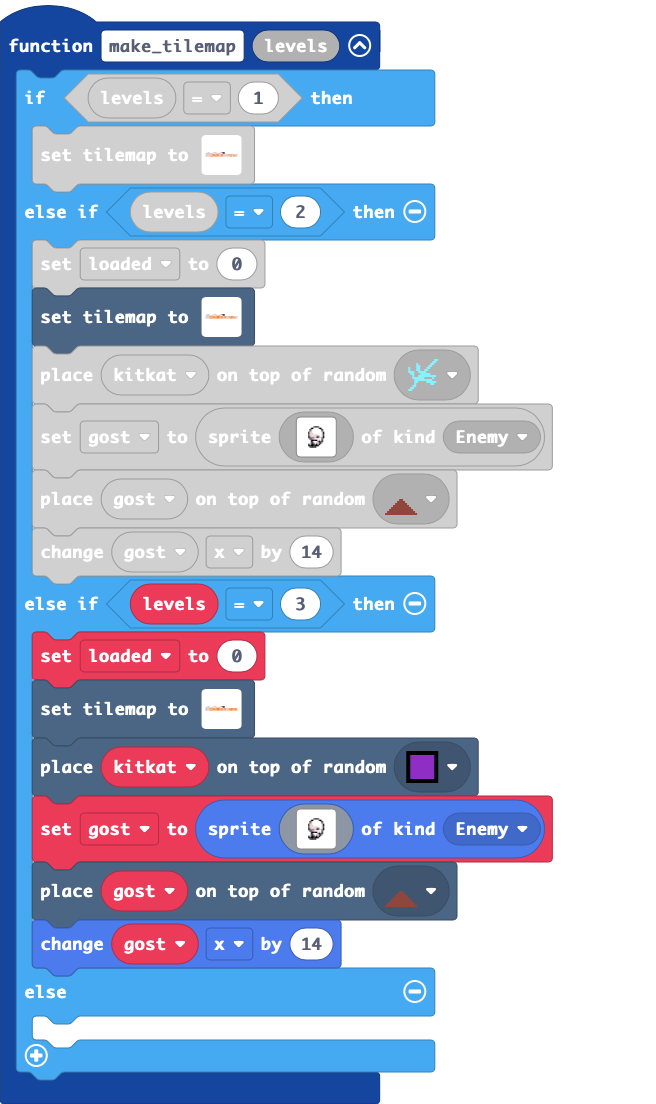
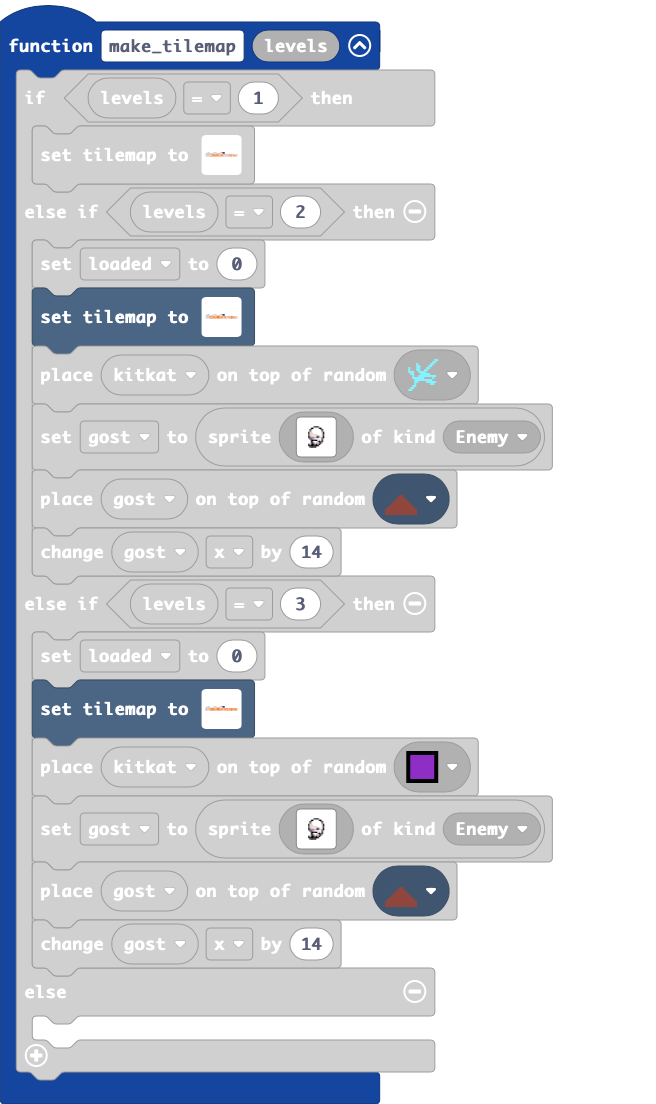
Update main.blocks, main.ts

Changed region(s): [[0.0, 0.0616, 0.8537, 0.9855], [0.5488, 0.4312, 0.7012, 0.4928]]

diff --git a/main.ts b/main.ts
@@ -127,7 +127,7 @@ function make_tilemap (levels: number) {
             `, [myTiles.transparency16,sprites.castle.tilePath2,sprites.castle.tilePath5,sprites.dungeon.hazardLava0,myTiles.tile3,sprites.dungeon.hazardWater,myTiles.tile4,myTiles.tile6,myTiles.tile7,myTiles.tile10,myTiles.tile11,myTiles.tile1,myTiles.tile5,sprites.builtin.forestTiles29,sprites.builtin.forestTiles9,sprites.castle.rock1], TileScale.Sixteen))
     } else if (levels == 2) {
         loaded = 0
[2 lines of base64/hex data omitted]
             ...2.2.......................................................2.......2..................................................
             .............................................................2.......2..................................................
             ...............................22.2..2..2..............22....2222....2..................................................
@@ -172,27 +172,27 @@ function make_tilemap (levels: number) {
             ........................
             ........................
             `, SpriteKind.Enemy)
-        tiles.placeOnRandomTile(gost, myTiles.tile5)
+        tiles.placeOnRandomTile(gost, myTiles.tile1)
         gost.x += 14
     } else if (levels == 3) {
         loaded = 0
[1 lines of base64/hex data omitted]
-            .............................................................2.......2..................................................
-            .............................................................2.......2..................................................
[1 lines of base64/hex data omitted]
+            .....................................................................2..................................................
+            .....................................................................2..................................................
             ...............................22.2..2..2..............22....2222....2..................................................
             ............................2..........................22........2...2..................................................
-            2..2222222..222...2........22.............2..2...2...2.22.........2..2..................................................
-            2..2222222..222...2.......22.............22..2...2...2.22..........2.2..................................................
-            2..2222222..222...2..2...22.......2..2..222..2...2...2.22............2..................................................
+            2..2222222..222...2.........2.............2..2...2...2.22.........2..2..................................................
+            2..2222222..222...2.......2..............22..2...2...2.22..........2.2..................................................
+            2..2222222..222...2..2....2.......2..2..222..2...2...2.22............2..................................................
             2..2222222..222.................2.2..2..222..2...2...2.22..2.2...2222222...22..........22....2...2....2.................
             2..2222222..................2..22.2..2..222..2...2...2.22..2.2...22222.2...2.2........2.2....2...2....22.........2....22
-            2..2222222.................22..22.2..2..222..2...2...2.22..2.2...22222.2...2..22222222..2....2...2....2.2.......22....2.
-            2..222222222222...2..2...2222..22.2..2..222..2...2...2.22..2.2...22222.2...2............2....2...2....2..22....222....2.
-            2..222222222222...2..2...2222..22.2..2..222..2...2...2.22..2.2...22222.2...2............2....2...2....2...2....2.2....2.
-            2..222222222222...2..2...2222..22.2..2..222..2...2...2.22..2.2...22222.2...2............2....2...2....2...2....2.2....2.
-            2..222222222222...2..2...2222..22.2..2..222..2...2...2.22..2.2...22222.2...2...........22....2...2....2...2....2.2....2.
-            2..222222222222...2..2...2222..22.2..2..222..2...2...2.22..2.2...22222.2...2...........22....2...2....2...2....2.2....2.
-            2..222222222222...2..2...2222..22.2..2..222..2...2...2.22..2.2...22222.2...2...........22....2...2....2..22....2.2....2.
+            2..2222222..................2..22.2..2..222..2...2...2.22..2.2...22222.2...2..2......2..2....2...2....2.2.......22....2.
+            2..222222222222...2..2....2.2..22.2..2..222..2...2...2.22..2.2...22222.2...2..2......2..2....2...2....2..22....222....2.
+            2..222222222222...2..2....2.2..22.2..2..222..2...2...2.22..2.2...22222.2...2..2......2..2....2...2....2...2....2.2....2.
+            2..222222222222...2..2....2.2..22.2..2..222..2...2...2.22..2.2...22222.2...2.22......2..2....2...2....2...2....2.2....2.
+            2..222222222222...2..2....2.2..22.2..2..222..2...2...2.22..2.2...22222.2...2.22......2.22....2...2....2...2....2.2....2.
+            2..222222222222...2..2....2.2..22.2..2..222..2...2...2.22..2.2...22222.2...2.22......2.22....2...2....2...2....2.2....2.
+            2..222222222222...2..2....2.2..22.2..2..222..2...2...2.22..2.2...22222.2...2.22......2.22....2...2....2..22....2.2....2.
             `, [myTiles.transparency16,sprites.castle.tilePath2,sprites.castle.tilePath5,sprites.dungeon.hazardLava0,sprites.dungeon.hazardWater,myTiles.tile4,myTiles.tile6,myTiles.tile7,myTiles.tile10,myTiles.tile11,myTiles.tile1,myTiles.tile5,sprites.builtin.forestTiles29,sprites.builtin.forestTiles9,sprites.castle.rock1,myTiles.tile2], TileScale.Sixteen))
         tiles.placeOnRandomTile(kitkat, myTiles.tile2)
         gost = sprites.create(img`
@@ -221,7 +221,7 @@ function make_tilemap (levels: number) {
             ........................
             ........................
             `, SpriteKind.Enemy)
-        tiles.placeOnRandomTile(gost, myTiles.tile5)
+        tiles.placeOnRandomTile(gost, myTiles.tile1)
         gost.x += 14
     } else {
     	
